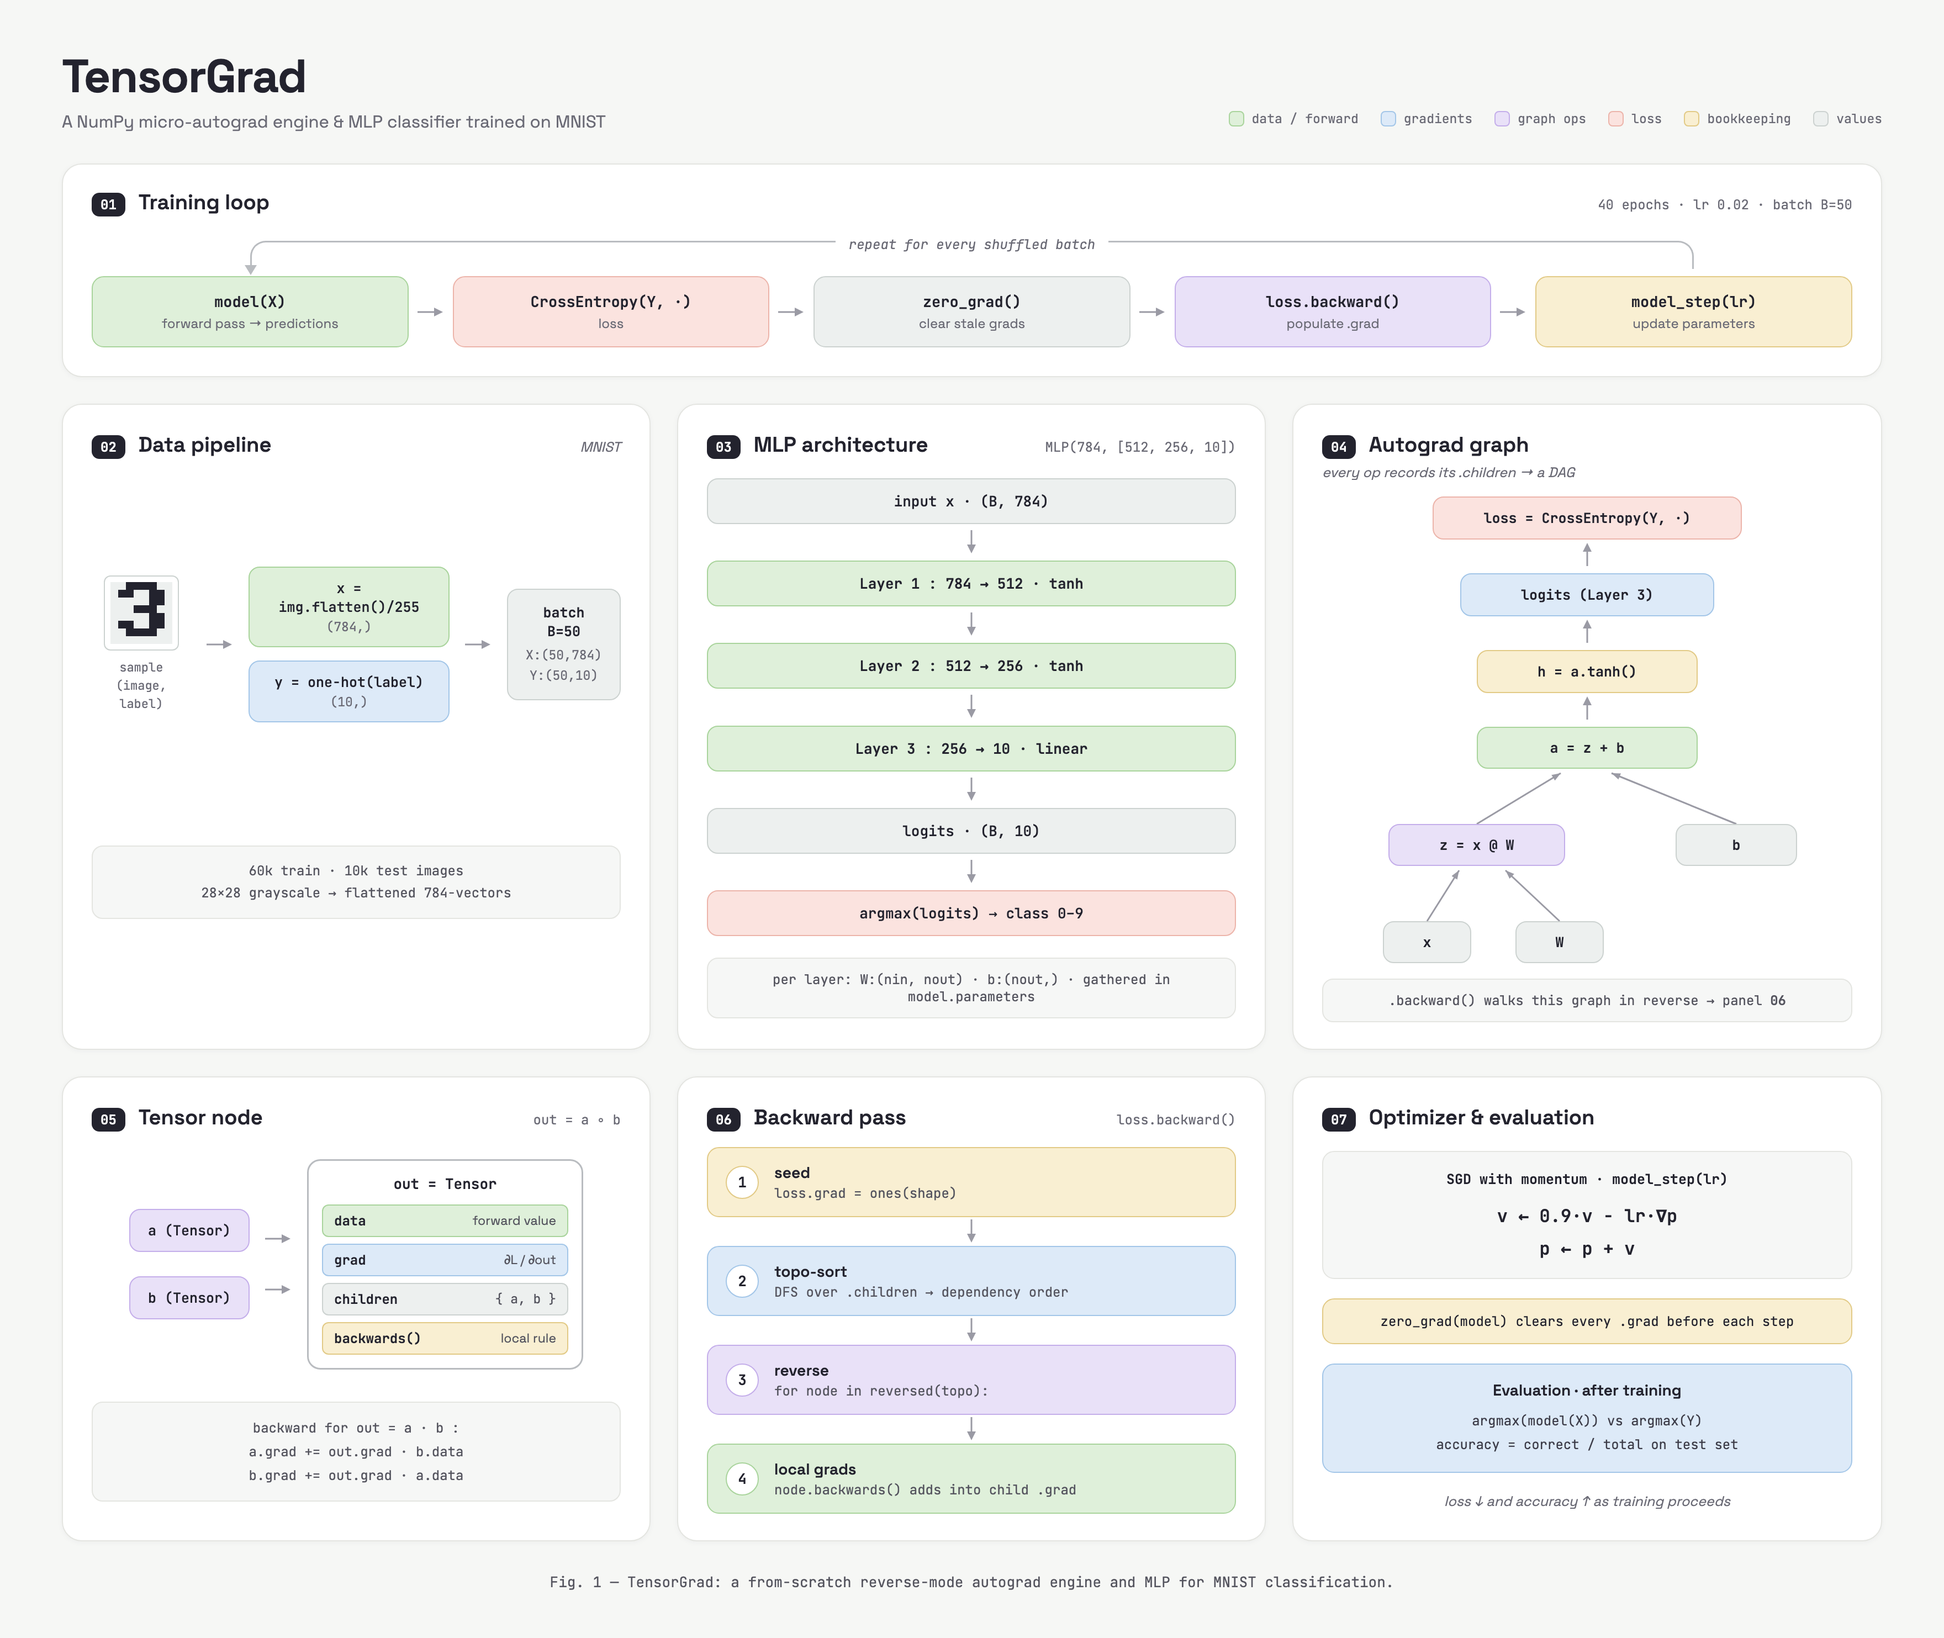
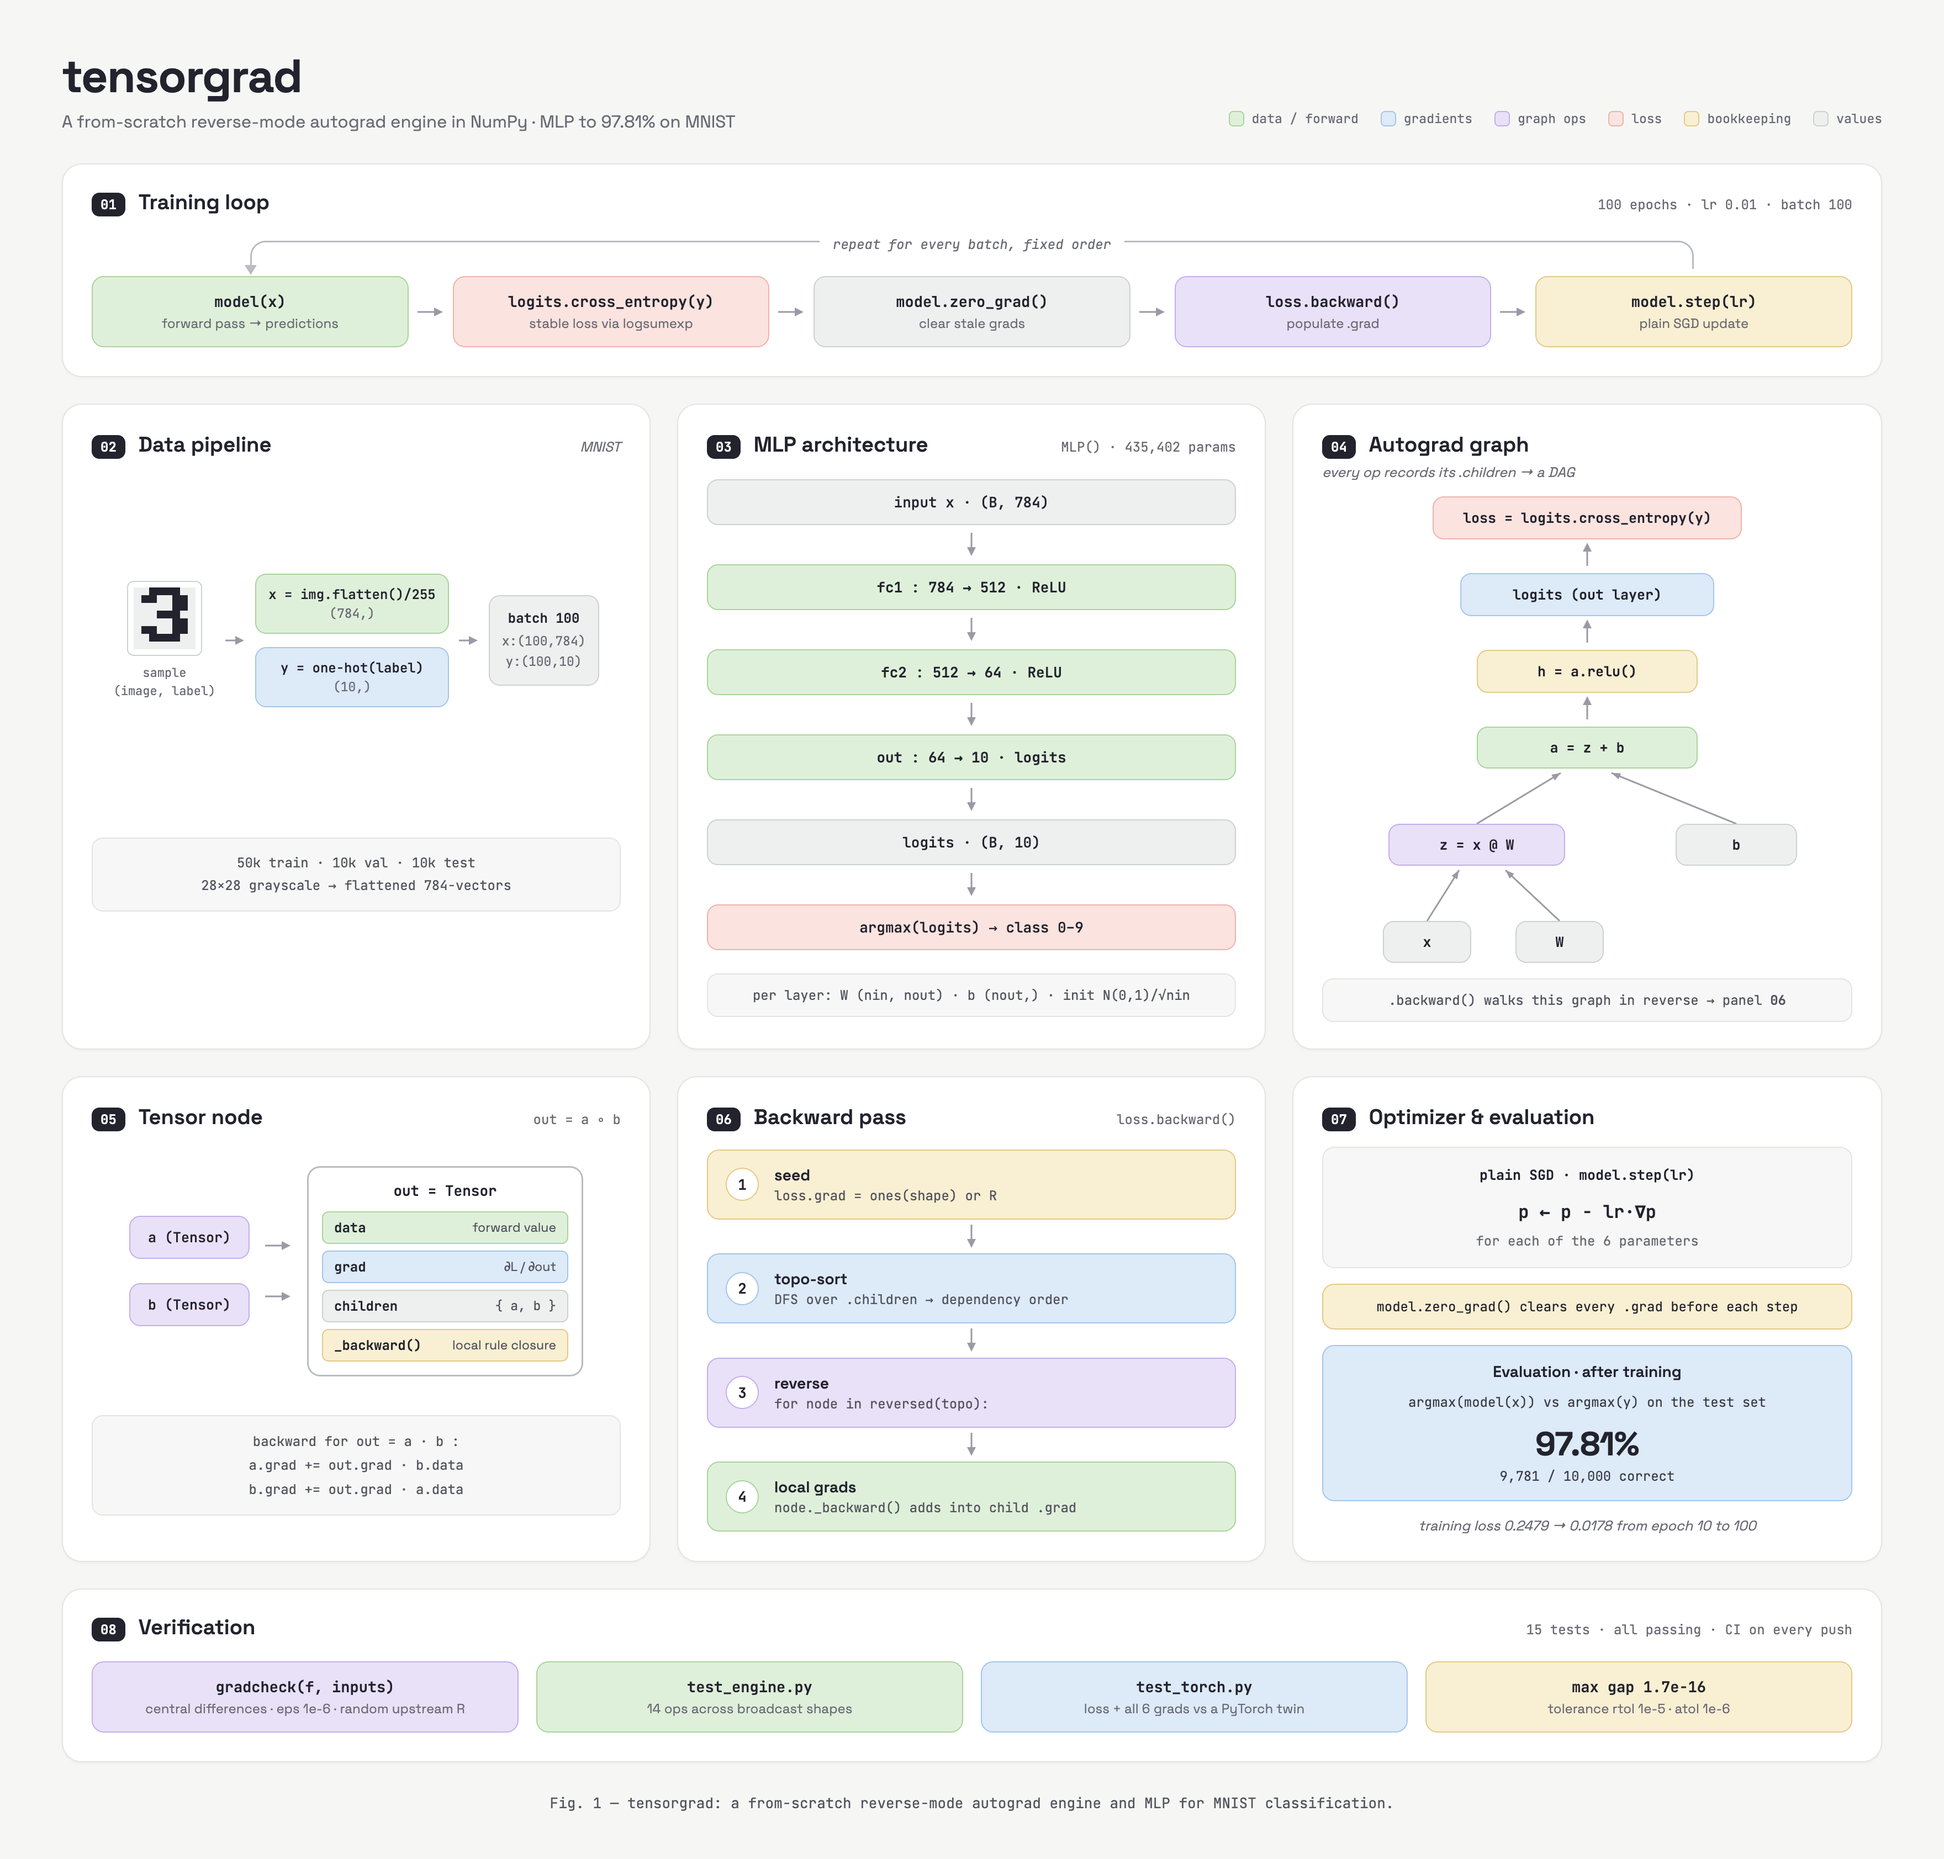
New diagram for this version: ReLU 784-512-64-10, plain SGD, 97.81%, verification panel

diff --git a/README.md b/README.md
@@ -9,8 +9,6 @@ A reverse-mode autograd engine for tensors, written from scratch in NumPy. It tr
 
 ![tensorgrad: a from-scratch reverse-mode autograd engine and MLP for MNIST classification](tensorgrad_diagram.png)
 
-<sub>The figure shows the overall design. The numbers in it come from the first version of the project; this version uses ReLU, a 784-512-64-10 network and plain SGD (see [Training on MNIST](#training-on-mnist)).</sub>
-
 ## Results
 
 | | |
